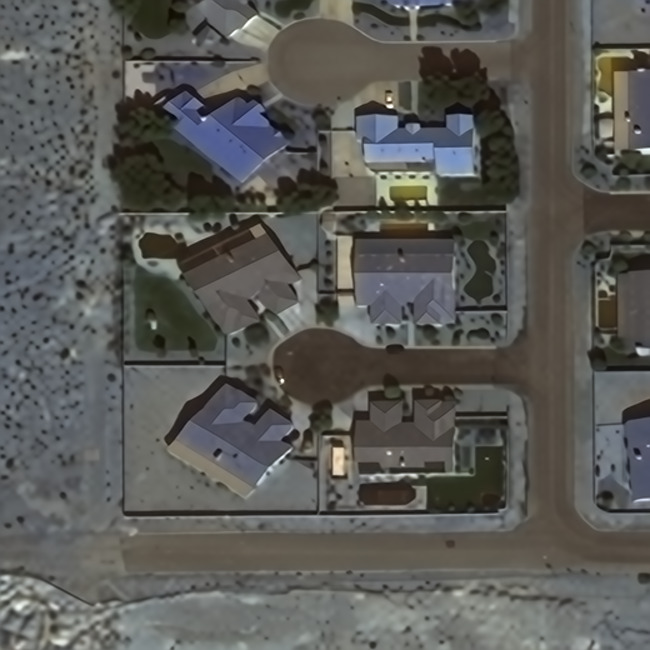
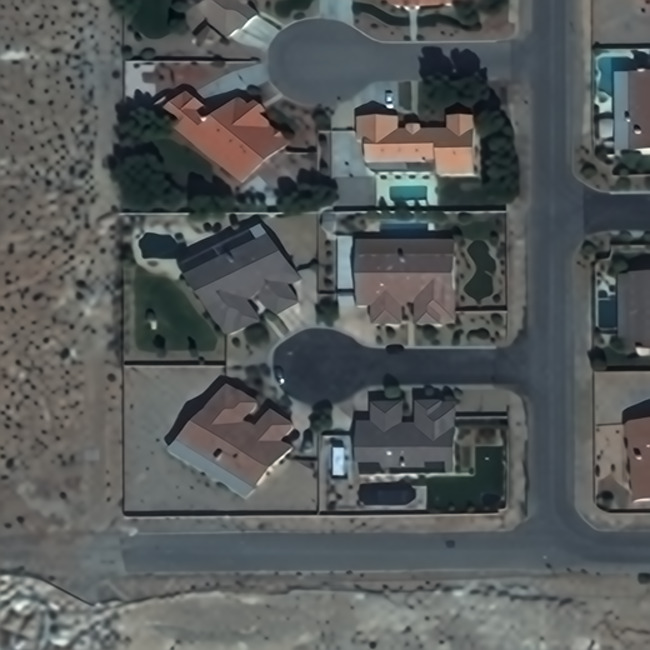
[UDPATE] Fix bug

diff --git a/solafune_tools/osm/super_resolution/inference.py b/solafune_tools/osm/super_resolution/inference.py
@@ -317,7 +317,7 @@ if __name__ == "__main__":
         os.makedirs(img_output.split("/")[0], exist_ok=True)
 
     if img_output.endswith(".tif") or img_output.endswith(".tiff"):
-        img_result = cv2.cvtColor(img_result, cv2.COLOR_RGB2BGR)
+        #img_result = cv2.cvtColor(img_result, cv2.COLOR_RGB2BGR)
         tifffile.imwrite(img_output, img_result)
     else:
         cv2.imwrite(img_output, img_result)
